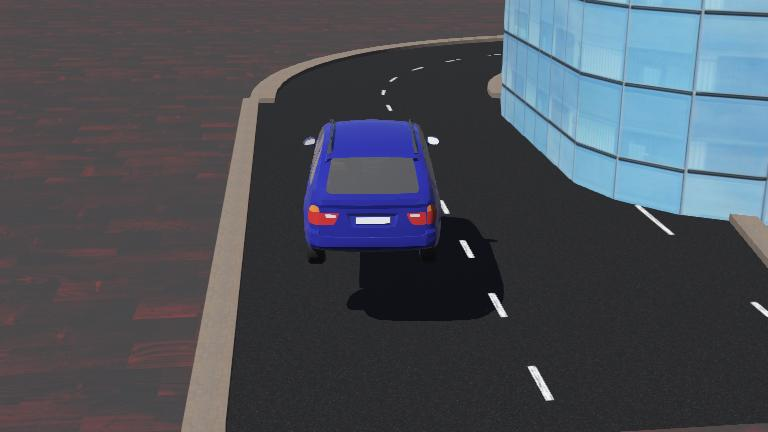
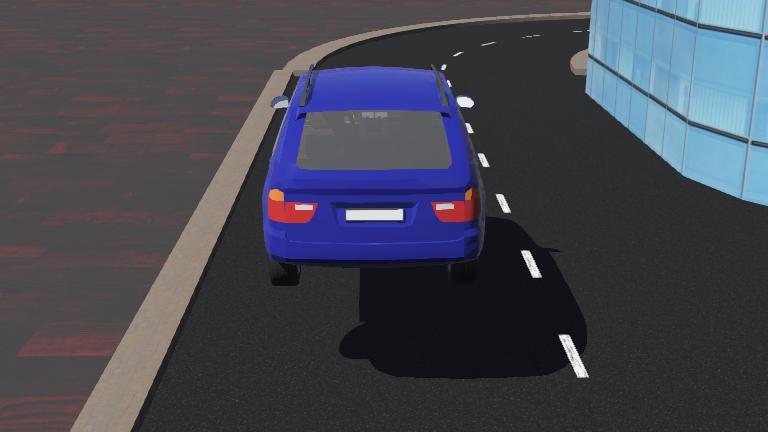
Changes on dynamics
I've changed camera angles, the intensity on turns, and the intesity on not going over lanes

diff --git a/controllers/Hondaodyssey/Hondaodyssey.py b/controllers/Hondaodyssey/Hondaodyssey.py
@@ -130,9 +130,11 @@ while driver.step() != -1:
                 integral += error
                 integral = max(min(integral, 30.0), -30.0) 
                 
+                
+                #P=Kp * E(t)
                 p_term = error * 3.0
                 i_term = integral * 0.05
-                d_term = (error - last_error) * 10.0
+                d_term = (error - last_error) * 20.0
                 
                 current_steering = p_term + i_term + d_term
                 
@@ -145,12 +147,11 @@ while driver.step() != -1:
             else:
             #FIND THE LINEEEEE
                 driver.setBrakeIntensity(0.0)
-                if last_error < -0.1: 
-                    current_steering = 0.3
-                elif last_error > 0.1:
-                    current_steering = -0.3
+                if abs(last_error) > 0.05:
+                    current_steering = -(last_error * 2.0)
                 else:
                     current_steering = 0.0
+                current_steering = max(-0.4, min(0.4, current_steering))
                      # Straighten the wheel so it doesn't swerve
                 current_speed = 30.0 # Keep rolling forward
                 
